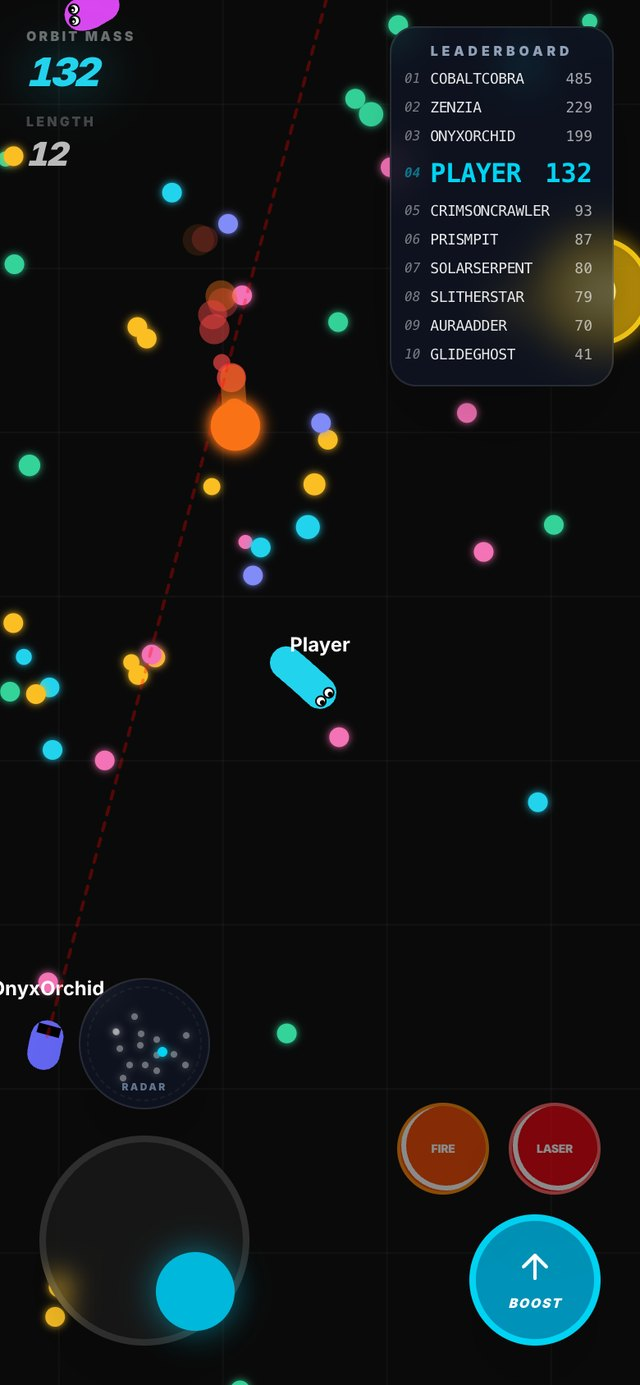
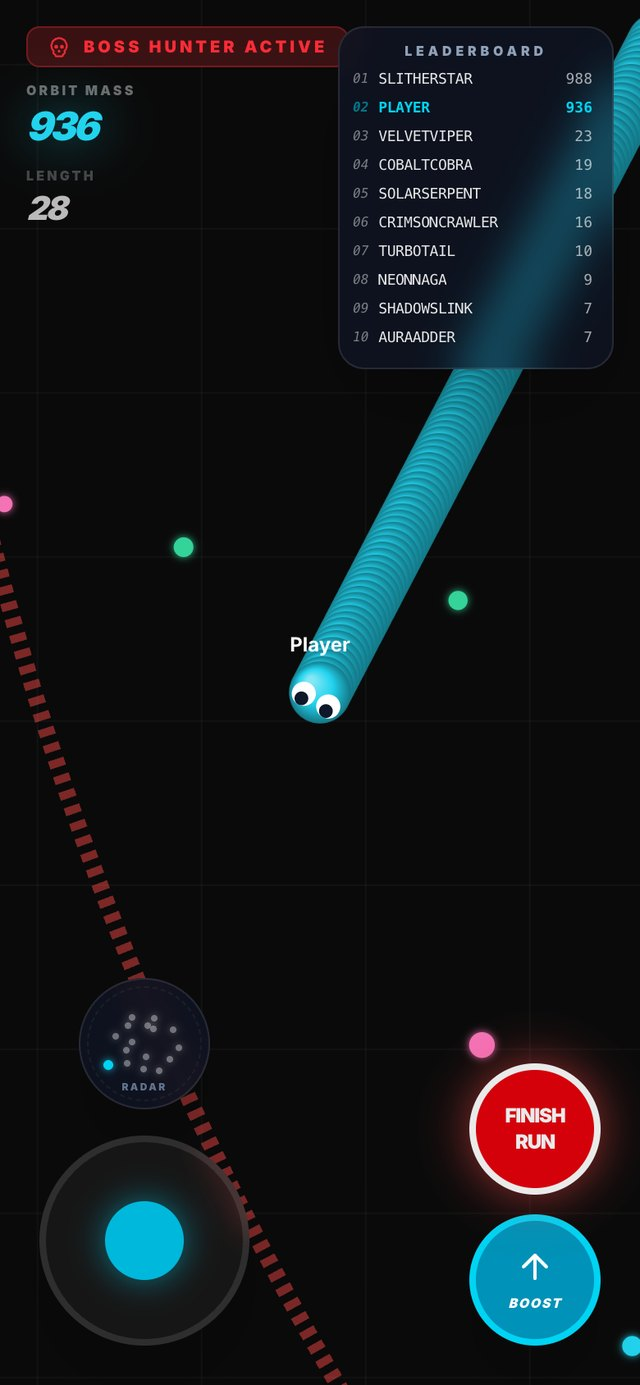
Slither Orbit: boss-fight screenshot and copy for the new features
The panel copy predated boss mode, magic abilities and desktop keyboard
controls, all of which ship in the current build. Swaps the arena screenshot
for a boss run and updates the share image to match.

diff --git a/site/index.html b/site/index.html
@@ -255,9 +255,10 @@
           <p class="sub">Slither, orbit, outlast the bots</p>
           <p class="desc">A high-speed survival snake game in a circular, gravity-defying
              arena. Guide your growing trail around the orbit, weave between rival bots,
-             and outlast them all.</p>
+             and outlast them all — then go hunting in a timed boss run.</p>
           <ul class="game-points">
-            <li>Single-player, you against the bots</li>
+            <li>Single-player: survive the arena or take on the boss</li>
+            <li>Magic abilities, plus full keyboard or touch controls</li>
             <li>Fully offline — plays anywhere</li>
             <li>No ads, no tracking, no in-app purchases</li>
           </ul>
@@ -268,7 +269,7 @@
           </div>
         </div>
         <div class="game-shot">
-          <img src="/assets/slither-orbit.jpg?v=2" width="640" height="1385" alt="Slither Orbit gameplay: a glowing cyan snake among scattered coloured pellets in a dark arena, with a live leaderboard and an exploding rival." loading="lazy">
+          <img src="/assets/slither-orbit.jpg?v=3" width="640" height="1385" alt="Slither Orbit boss fight: a huge glowing cyan snake coiling through a dark arena under a &quot;Boss Hunter Active&quot; banner, second place on the live leaderboard." loading="lazy">
         </div>
       </div>
 
